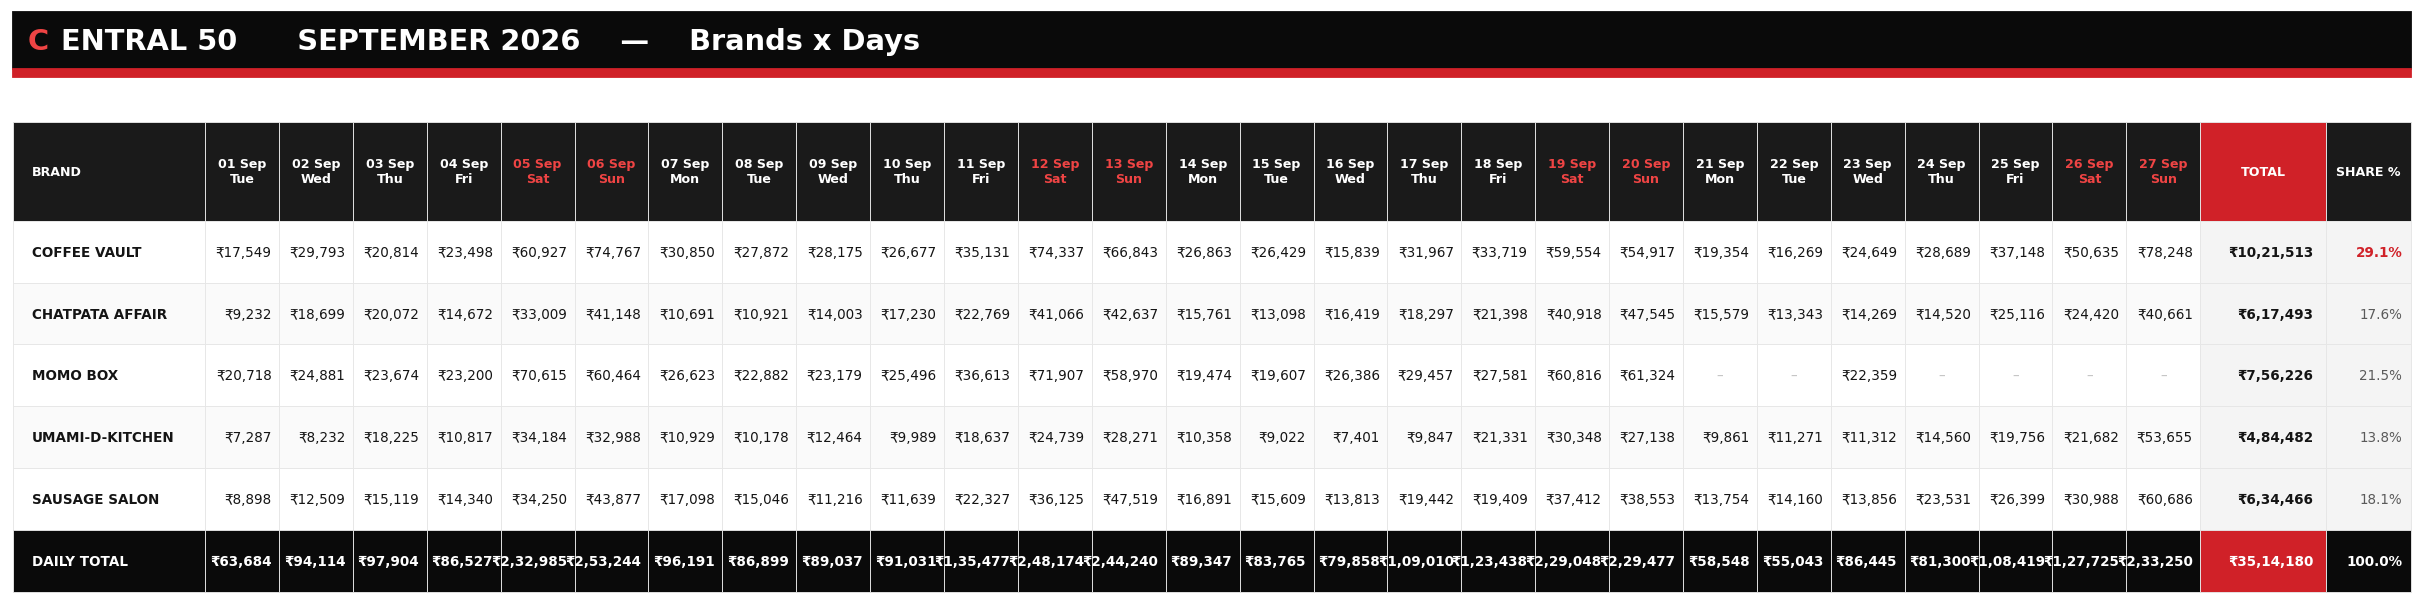
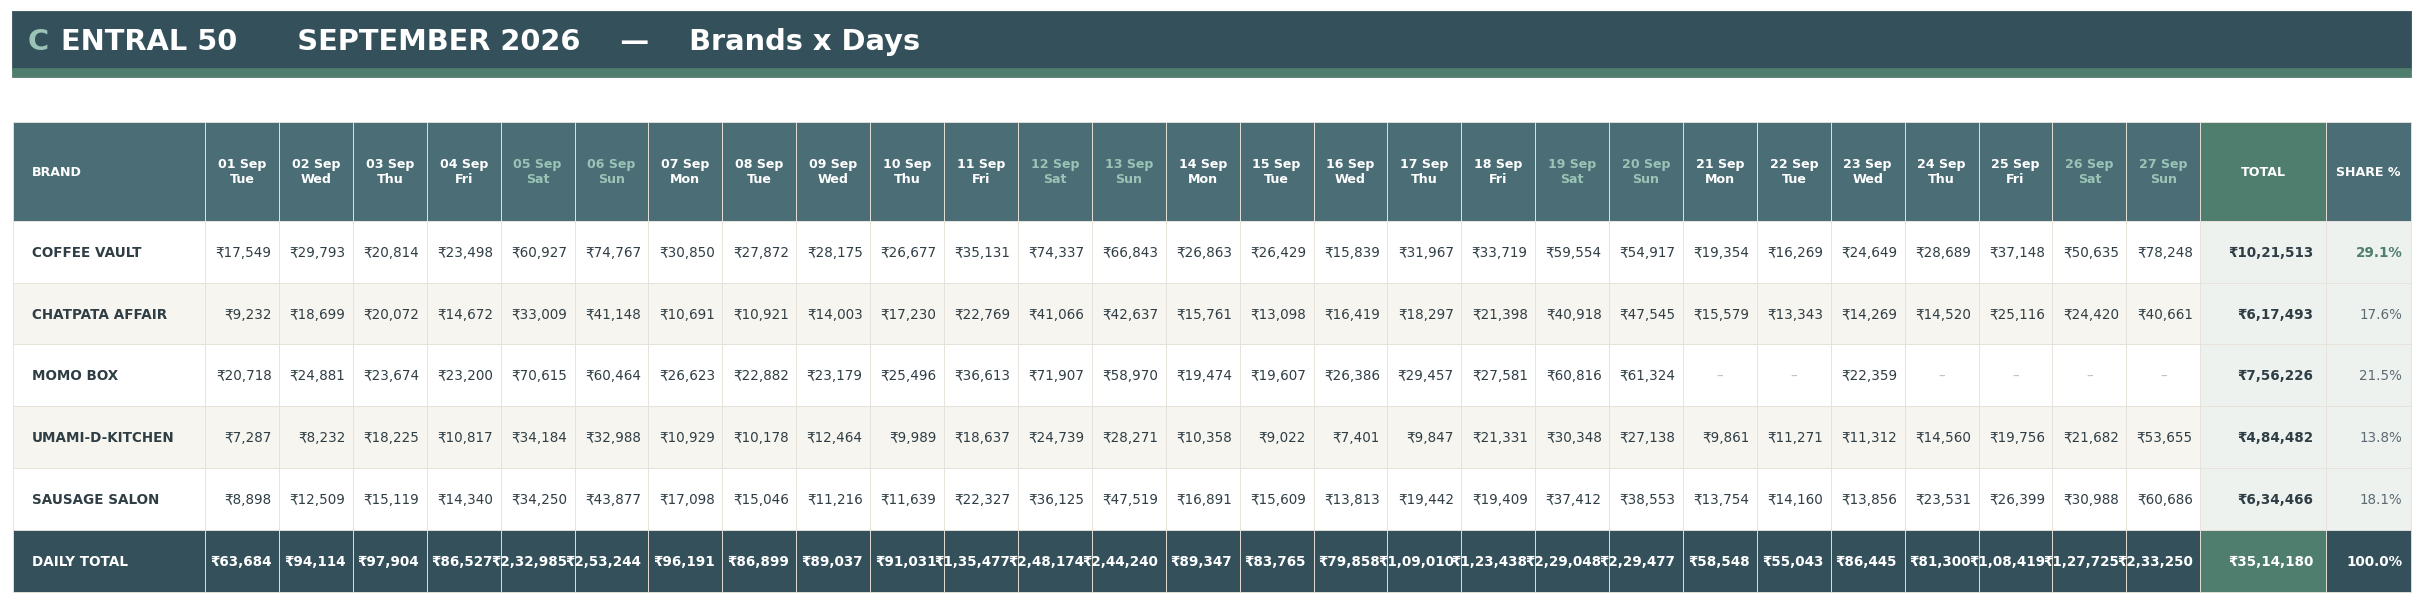
Recolor both reports with a soothing palette
- Replace the harsh black + bright-red theme with a calm scheme:
  deep teal-slate (#34515B) bands, soft sage accent (#4F7D6E) for grand
  totals/highlights, warm off-white zebra and soft hairlines
- Applies to both the day-wise and the transposed (brands x days) report
  (shared palette) plus the SUMMARY sheet
- Numbers, totals and layout unchanged

diff --git a/build_september_report.py b/build_september_report.py
@@ -32,17 +32,17 @@ ZONES = {
     "BENNETT ":   {"start": 66},
 }
 
-# ---------- palette (black + red + neutral) ----------
-INK    = "0A0A0A"   # title band / total row
-INK2   = "1A1A1A"   # column header fill
-REDF   = "D02128"   # brand red (fills on white)
-REDT   = "EF4444"   # brand red (text on dark)
-GREY   = "8A8A8A"   # secondary text
-GREYD  = "5A5A5A"   # darker secondary
-INKTX  = "141414"   # primary text
-LINE   = "E6E6E6"   # hairline borders
-BAND   = "FAFAFA"   # zebra
-FILL2  = "F4F4F4"   # section / total-col fill
+# ---------- palette (soothing: teal-slate + soft sage + warm neutral) ----------
+INK    = "34515B"   # deep muted teal-slate (title / total band)
+INK2   = "4A6D76"   # muted teal (column header fill)
+REDF   = "4F7D6E"   # soft sage accent  (fills on white)  [grand total, highlights]
+REDT   = "9BC3B6"   # light sage accent (text on the dark band)
+GREY   = "8B969D"   # secondary text (cool gray)
+GREYD  = "5C6B72"   # darker secondary
+INKTX  = "2F3E45"   # primary text (dark slate)
+LINE   = "E7E2D9"   # hairline borders (soft warm)
+BAND   = "F7F5F0"   # zebra (warm off-white)
+FILL2  = "EDF2EF"   # section / total-col fill (pale sage-gray)
 WHITE  = "FFFFFF"
 
 # Indian numbering format: <1 lakh -> thousands; lakh band; crore band

diff --git a/preview_transposed.py b/preview_transposed.py
@@ -7,9 +7,9 @@ from matplotlib.patches import Rectangle
 from openpyxl import load_workbook
 
 WB = "SEPTEMBER 2026 - ZONE SALES REPORT (BRANDS x DAYS).xlsx"
-INK="#0A0A0A"; INK2="#1A1A1A"; RED="#D02128"; REDT="#EF4444"
-GREY="#8A8A8A"; GREYD="#5A5A5A"; INKTX="#141414"; LINE="#E6E6E6"
-BAND="#FAFAFA"; FILL2="#F4F4F4"; WHITE="#FFFFFF"
+INK="#34515B"; INK2="#4A6D76"; RED="#4F7D6E"; REDT="#9BC3B6"
+GREY="#8B969D"; GREYD="#5C6B72"; INKTX="#2F3E45"; LINE="#E7E2D9"
+BAND="#F7F5F0"; FILL2="#EDF2EF"; WHITE="#FFFFFF"; DASH="#C4C0B6"
 
 
 def inr(n):
@@ -102,7 +102,7 @@ def render(sheet, path):
                 if (rr-1)==top_row: txt.set_color(RED); txt.set_fontweight("bold")
                 else: txt.set_color(GREYD)
             elif data[rr-1][cc]=="\u2013":
-                txt.set_color("#C4C4C4")
+                txt.set_color(DASH)
             else:
                 txt.set_color(INKTX); txt.set_ha("right")
     plt.savefig(path,dpi=130,bbox_inches="tight",facecolor="white"); print("wrote",path)

diff --git a/preview.py b/preview.py
@@ -7,9 +7,9 @@ from matplotlib.patches import Rectangle
 from openpyxl import load_workbook
 
 WB = "SEPTEMBER 2026 - ZONE SALES REPORT.xlsx"
-INK="#0A0A0A"; INK2="#1A1A1A"; RED="#D02128"; REDT="#EF4444"
-GREY="#8A8A8A"; GREYD="#5A5A5A"; INKTX="#141414"; LINE="#E6E6E6"
-BAND="#FAFAFA"; FILL2="#F4F4F4"; WHITE="#FFFFFF"
+INK="#34515B"; INK2="#4A6D76"; RED="#4F7D6E"; REDT="#9BC3B6"
+GREY="#8B969D"; GREYD="#5C6B72"; INKTX="#2F3E45"; LINE="#E7E2D9"
+BAND="#F7F5F0"; FILL2="#EDF2EF"; WHITE="#FFFFFF"; DASH="#C4C0B6"
 
 
 def inr(n):
@@ -97,7 +97,7 @@ def render_zone(sheet, path):
                 if day in ("Saturday","Sunday"): txt.set_color(RED); txt.set_fontweight("bold")
                 else: txt.set_color(GREYD)
             elif cc>=2 and data[rr-1][cc]=="\u2013":
-                txt.set_color("#C4C4C4")
+                txt.set_color(DASH)
             else:
                 txt.set_color(INKTX)
         # alignment: numbers right, labels center
